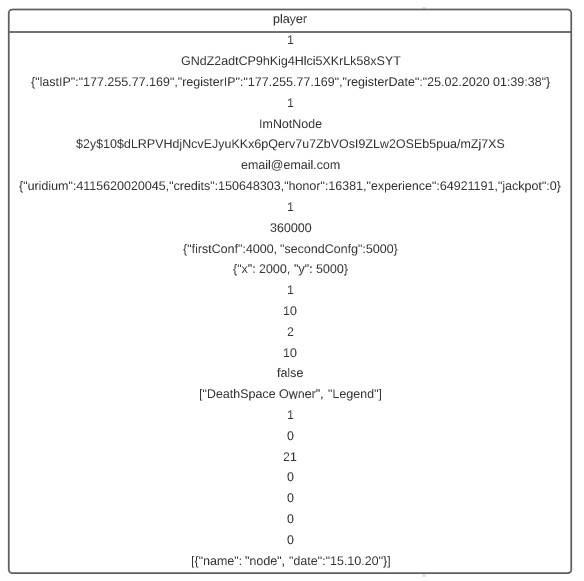
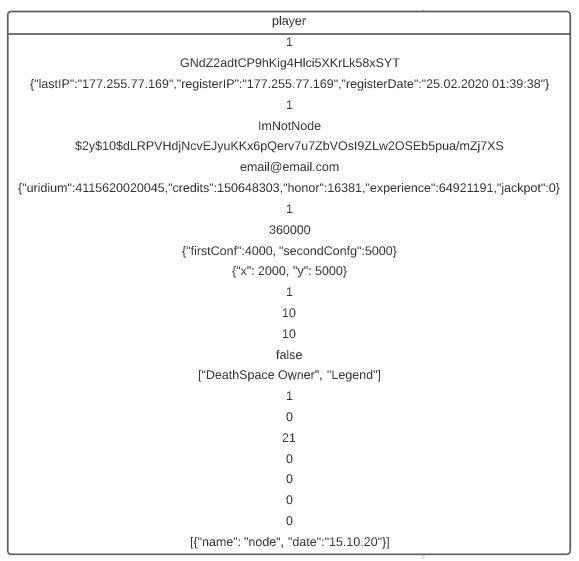
Update README.md

Changed region(s): [[0.0, 0.0, 0.9948, 1.0]]

diff --git a/README.md b/README.md
@@ -58,11 +58,30 @@ Improvements in attacks, types of attacks, movements and better abstraction, it 
 
 ### => v.0.0.3 (In development)
 
-It will contain all the functionality of darkorbit 2009, except skylab, clans, auctions, general account settings, refinement of lasers or generators, bonus page, page to buy uridium, missions, without cubikones / npc with unique characteristics.
+It will contain all the functionality of darkorbit 2009, except skylab, clans, auctions, general account settings, refinement of lasers or generators, bonus page, page to buy uridium, missions, without cubikones / npc with unique characteristics, only low maps will be available.
 
 **Conceptual UI**
 
 <img src="https://raw.githubusercontent.com/luislortega/SpaceWar_Doc/main/screenshots/v003/Screenshot_1.jpg" width="500">
+<img src="https://raw.githubusercontent.com/luislortega/SpaceWar_Doc/main/screenshots/v003/Screenshot_2.jpg" width="500">
+<img src="https://raw.githubusercontent.com/luislortega/SpaceWar_Doc/main/screenshots/v003/Screenshot_3.jpg" width="500">
+<img src="https://raw.githubusercontent.com/luislortega/SpaceWar_Doc/main/screenshots/v003/Screenshot_4.jpg" width="500">
+
+**Available maps**
+
+<img src="https://raw.githubusercontent.com/luislortega/SpaceWar_Doc/main/screenshots/v003/Screenshot_15.jpg" width="500">
+
+**Class modeling**
+
+To-do
+
+**Database modeling**
+
+<img src="https://raw.githubusercontent.com/luislortega/SpaceWar_Doc/main/screenshots/v003/Screenshot_5.jpg" width="500">
+
+**Database example data**
+
+<img src="https://raw.githubusercontent.com/luislortega/SpaceWar_Doc/main/screenshots/v003/Screenshot_6.jpg" width="500">
 
 player_id: int auto incrementable
 
@@ -86,23 +105,15 @@ health default 0
 
 shield default {"firstConf":0, "secondConfg":0}
 
+position: default {"x": 0, "y": 0} cambia dependiendo de la empresa que escoga
+
+map_id default 0 cambia dependiendo de la empresa 
+
+ship_id default 1
+
+current_config default 1
 
 
-<img src="https://raw.githubusercontent.com/luislortega/SpaceWar_Doc/main/screenshots/v003/Screenshot_2.jpg" width="500">
-<img src="https://raw.githubusercontent.com/luislortega/SpaceWar_Doc/main/screenshots/v003/Screenshot_3.jpg" width="500">
-<img src="https://raw.githubusercontent.com/luislortega/SpaceWar_Doc/main/screenshots/v003/Screenshot_4.jpg" width="500">
-
-**Class modeling**
-
-To-do
-
-**Database modeling**
-
-<img src="https://raw.githubusercontent.com/luislortega/SpaceWar_Doc/main/screenshots/v003/Screenshot_5.jpg" width="500">
-
-**Database example data**
-
-<img src="https://raw.githubusercontent.com/luislortega/SpaceWar_Doc/main/screenshots/v003/Screenshot_6.jpg" width="500">
 <img src="https://raw.githubusercontent.com/luislortega/SpaceWar_Doc/main/screenshots/v003/Screenshot_7.jpg" width="500">
 <img src="https://raw.githubusercontent.com/luislortega/SpaceWar_Doc/main/screenshots/v003/Screenshot_8.jpg" width="500">
 <img src="https://raw.githubusercontent.com/luislortega/SpaceWar_Doc/main/screenshots/v003/Screenshot_9.jpg" width="500">
